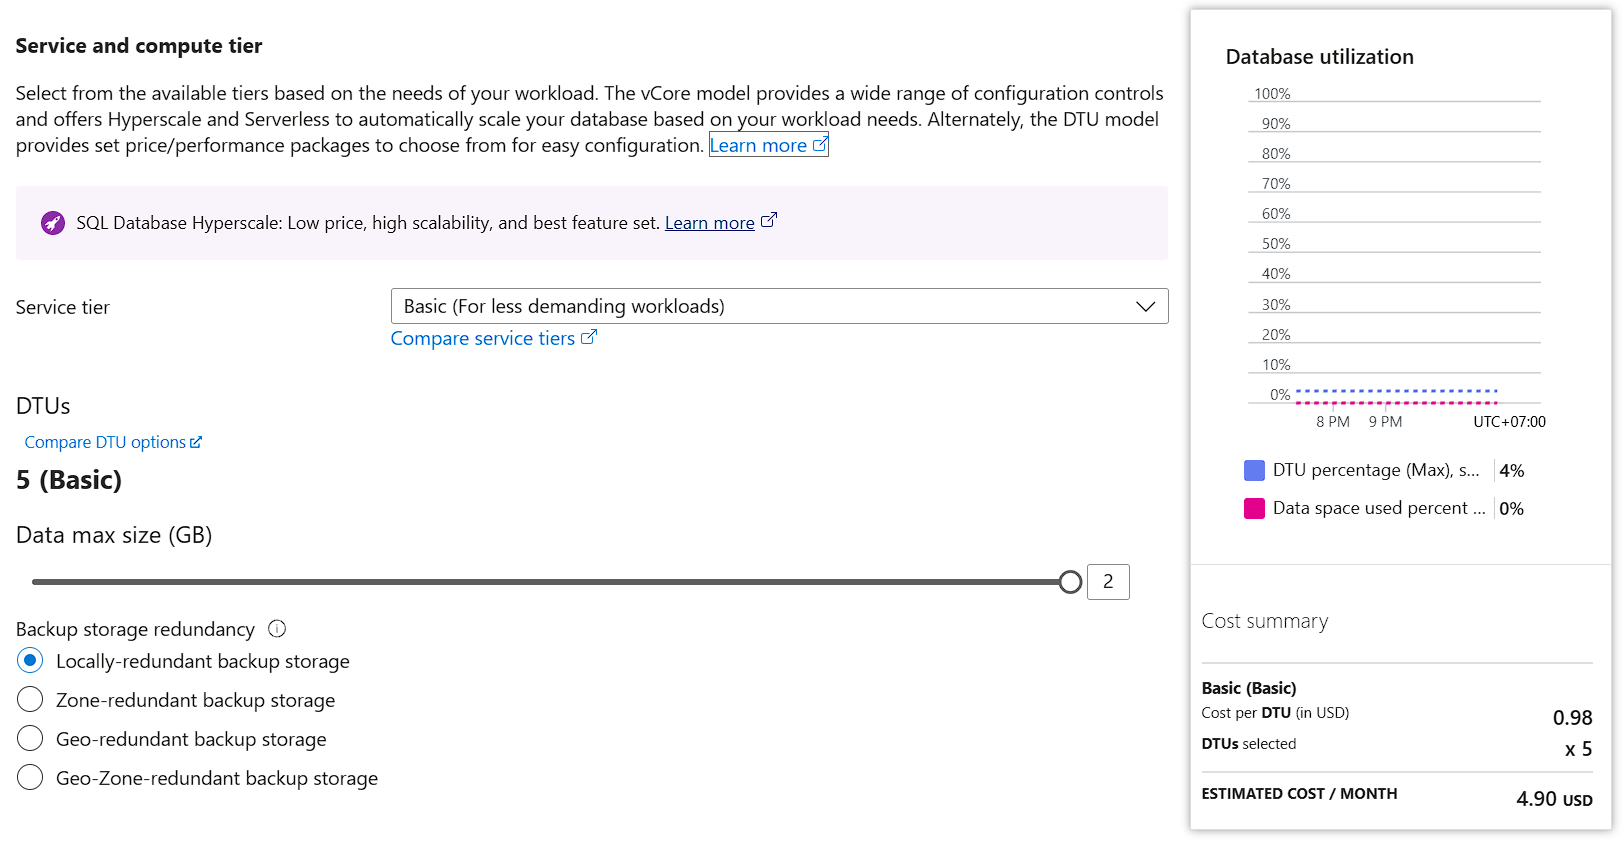
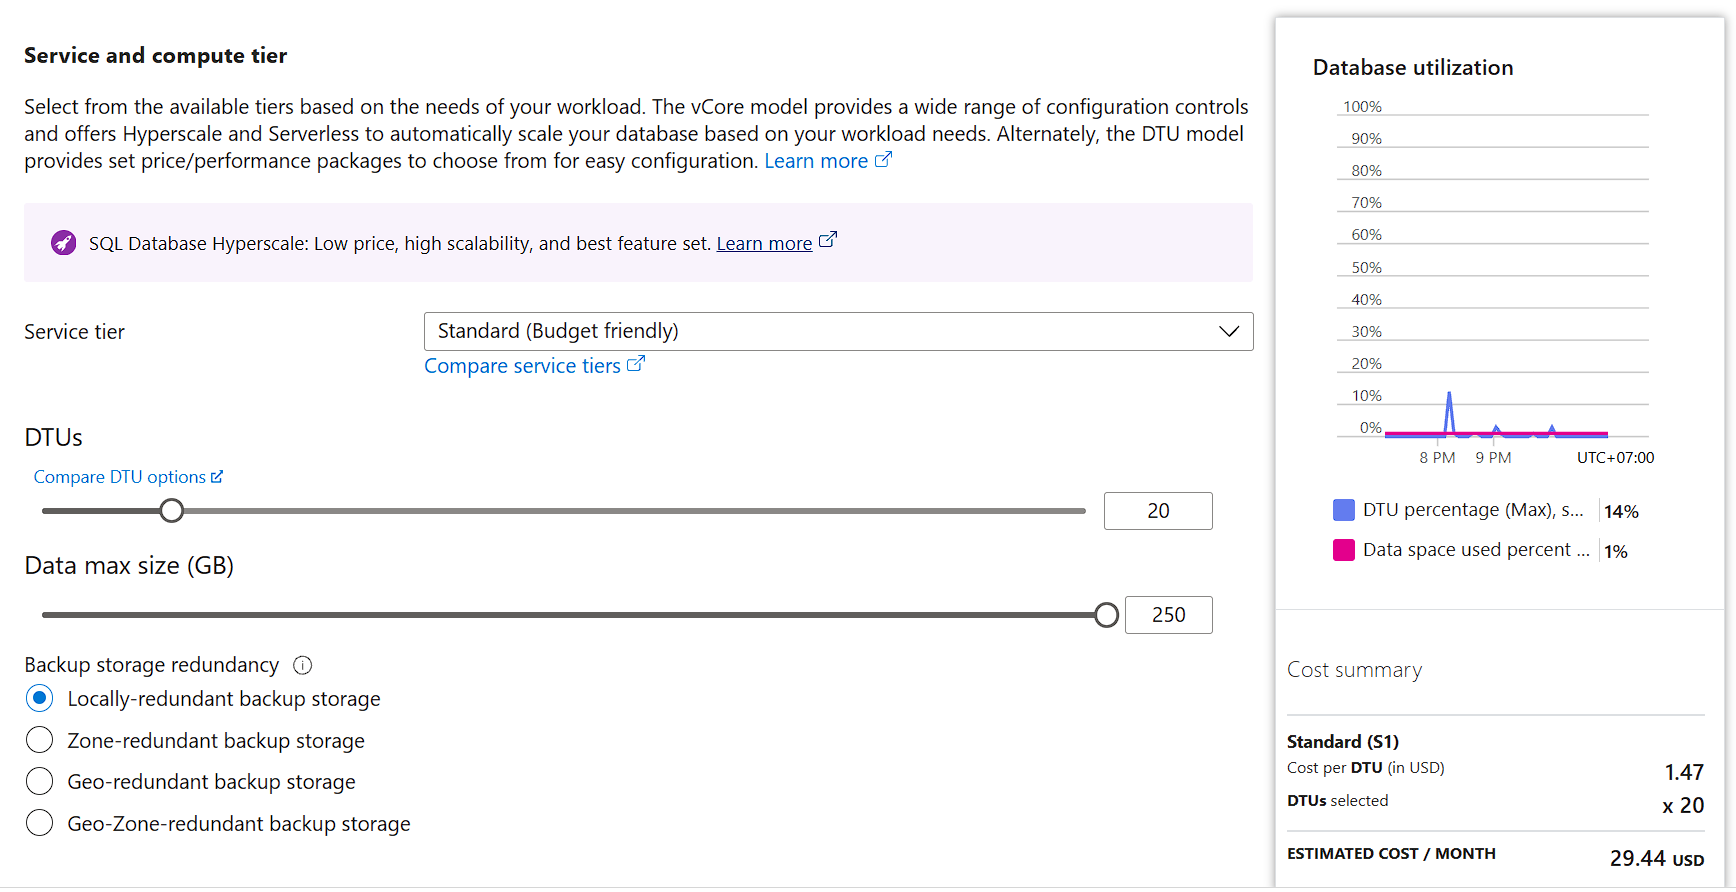
feat(benchmark): hoan thanh do hieu nang sql azure vs local va xuat bieu do

diff --git a/database/benchmarks/sql_benchmark.py b/database/benchmarks/sql_benchmark.py
@@ -60,9 +60,9 @@ GEN_SQL = f"""
 INSERT INTO bench.read_events (event_time, event_type, product_id, brand, price, user_id, user_session, payload)
 SELECT TOP (?)
     DATEADD(SECOND, CAST({R} % 2678400 AS INT), '2019-10-01'),
-    CHOOSE(1 + CAST({R} % 100 AS INT) / 33, 'view', 'view', 'view', 'purchase'),
+    CHOOSE(1 + (ROW_NUMBER() OVER (ORDER BY (SELECT NULL)) % 100) / 33, 'view', 'view', 'view', 'purchase'),
     CAST(1000978 + {R} % 59500000 AS INT),
-    CHOOSE(1 + CAST({R} % 10 AS INT), 'samsung','apple','xiaomi','huawei','lenovo','acer','sony','lg','hp','bosch'),
+    CHOOSE(1 + ((ROW_NUMBER() OVER (ORDER BY (SELECT NULL)) / 7) % 10), 'samsung','apple','xiaomi','huawei','lenovo','acer','sony','lg','hp','bosch'),
     CAST(ROUND({R} % 257407 / 100.0, 2) AS FLOAT),
     CAST(33869381 + {R} % 530000000 AS INT),
     CONVERT(CHAR(36), NEWID()),
@@ -178,11 +178,16 @@ def grow_to(conn, target_mb, label):
     n = 0
     while mb < target_mb:
         n += 1
+        if rows > 0:
+            need = int((target_mb - mb) * rows / mb) + 1
+            chunk = max(1000, min(CHUNK, need))
+        else:
+            chunk = 20_000 if target_mb < 50 else CHUNK
         t = time.perf_counter()
-        conn.cursor().execute(GEN_SQL, CHUNK)
+        conn.cursor().execute(GEN_SQL, chunk)
         dur = time.perf_counter() - t
         mb, rows = table_size(conn)
-        record("read", "load_generate_chunk", label, mb, CHUNK, n, dur,
+        record("read", "load_generate_chunk", label, mb, chunk, n, dur,
                extra=f"server-side generate; table now {mb:.0f}MB/{rows}rows")
     return mb, rows
 
@@ -277,48 +282,93 @@ def gen_rows(n):
              random.randint(1, 2000), round(random.random() * 5000, 2)) for i in range(n)]
 
 
+def get_done_tests():
+    done = set()
+    if os.path.exists(CSV_PATH):
+        with open(CSV_PATH, "r", encoding="utf-8") as f:
+            for row in csv.DictReader(f):
+                if row.get("target") == ARGS.target and row.get("suite") == "write":
+                    done.add((row.get("test"), int(row.get("repeat") or 1)))
+    return done
+
+
+def run_with_retry(fn, tries=3):
+    for k in range(1, tries + 1):
+        try:
+            return fn()
+        except pyodbc.OperationalError as e:
+            if k == tries:
+                raise
+            print(f"  [retry {k}/{tries - 1}] mất kết nối ({e.args[0] if e.args else e}), thử lại sau 10s...", flush=True)
+            time.sleep(10)
+
+
 def suite_write():
     ac = connect(autocommit=True)
     setup(ac)
-    # (tên bảng, tổng dòng, batch) - batch commit mỗi lần, giống cách ASA ghi theo lô
+    ac.close()
+    done = get_done_tests()
     plan = [("write_noidx", 10_000, 1000), ("write_noidx", 100_000, 1000), ("write_noidx", 100_000, 100),
             ("write_noidx", 100_000, 10_000), ("write_idx", 10_000, 1000), ("write_idx", 100_000, 1000)]
 
-    # 1) ghi từng dòng (autocommit) - mốc so sánh với ghi theo batch
-    ac.cursor().execute("TRUNCATE TABLE bench.write_noidx")
-    rows = gen_rows(1000)
-    cur, lat, since = ac.cursor(), [], utcnow()
-    t0 = time.perf_counter()
-    for r in rows:
-        t = time.perf_counter()
-        cur.execute(INS_SQL.format(t="write_noidx"), r)
-        lat.append((time.perf_counter() - t) * 1000)
-    dur = time.perf_counter() - t0
-    dtu = finish_dtu(ac, since)
-    record("write", "write_single_n1000_noidx", None, None, 1000, 1, dur, dtu=dtu,
-           extra=f"1 INSERT/dòng, autocommit; lat_p50_ms={statistics.median(lat):.2f}; lat_p95_ms={pct(lat, 95):.2f}")
+    # 1) ghi từng dòng (autocommit)
+    if ("write_single_n1000_noidx", 1) not in done:
+        def one_single():
+            c = connect(autocommit=True)
+            try:
+                c.cursor().execute("TRUNCATE TABLE bench.write_noidx")
+                rows = gen_rows(1000)
+                cur, lat, since = c.cursor(), [], utcnow()
+                t0 = time.perf_counter()
+                for r in rows:
+                    t = time.perf_counter()
+                    cur.execute(INS_SQL.format(t="write_noidx"), r)
+                    lat.append((time.perf_counter() - t) * 1000)
+                dur = time.perf_counter() - t0
+                dtu = finish_dtu(c, since)
+                record("write", "write_single_n1000_noidx", None, None, 1000, 1, dur, dtu=dtu,
+                       extra=f"1 INSERT/dòng, autocommit; lat_p50_ms={statistics.median(lat):.2f}; lat_p95_ms={pct(lat, 95):.2f}")
+            finally:
+                c.close()
+        run_with_retry(one_single)
+    else:
+        print("  [skip] write_single_n1000_noidx đã có kết quả trong CSV", flush=True)
 
-    # 2) ghi theo batch bằng fast_executemany
-    conn = connect(autocommit=False)
+    # 2) ghi theo batch: mỗi lần đo một kết nối riêng, tự thử lại nếu rớt mạng
     for table, n, batch in plan:
+        tag = "idx" if table == "write_idx" else "noidx"
+        test_name = f"write_b{batch}_n{n}_{tag}"
         for rep in range(1, ARGS.reps + 1):
-            conn.cursor().execute(f"TRUNCATE TABLE bench.{table}")
-            conn.commit()
-            rows = gen_rows(n)
-            cur = conn.cursor()
-            cur.fast_executemany = True
-            lat, since = [], utcnow()
-            t0 = time.perf_counter()
-            for i in range(0, n, batch):
-                t = time.perf_counter()
-                cur.executemany(INS_SQL.format(t=table), rows[i:i + batch])
-                conn.commit()
-                lat.append((time.perf_counter() - t) * 1000)
-            dur = time.perf_counter() - t0
-            dtu = finish_dtu(conn, since)
-            tag = "idx" if table == "write_idx" else "noidx"
-            record("write", f"write_b{batch}_n{n}_{tag}", None, None, n, rep, dur, dtu=dtu,
-                   extra=f"batch={batch}; batch_lat_p50_ms={statistics.median(lat):.1f}; batch_lat_p95_ms={pct(lat, 95):.1f}")
+            if (test_name, rep) in done:
+                print(f"  [skip] {test_name} #{rep} đã có trong CSV", flush=True)
+                continue
+
+            def one_rep(table=table, n=n, batch=batch, rep=rep, test_name=test_name):
+                conn = connect(autocommit=False)
+                try:
+                    conn.cursor().execute(f"TRUNCATE TABLE bench.{table}")
+                    conn.commit()
+                    rows = gen_rows(n)
+                    cur = conn.cursor()
+                    cur.fast_executemany = True
+                    lat, since = [], utcnow()
+                    t0 = time.perf_counter()
+                    for i in range(0, n, batch):
+                        t = time.perf_counter()
+                        cur.executemany(INS_SQL.format(t=table), rows[i:i + batch])
+                        conn.commit()
+                        lat.append((time.perf_counter() - t) * 1000)
+                    dur = time.perf_counter() - t0
+                    dtu = finish_dtu(conn, since)
+                    record("write", test_name, None, None, n, rep, dur, dtu=dtu,
+                           extra=f"batch={batch}; batch_lat_p50_ms={statistics.median(lat):.1f}; batch_lat_p95_ms={pct(lat, 95):.1f}")
+                finally:
+                    try:
+                        conn.close()
+                    except Exception:
+                        pass
+
+            run_with_retry(one_rep)
 
 
 def suite_reset():

diff --git a/database/benchmarks/clean_csv.py b/database/benchmarks/clean_csv.py
@@ -1,0 +1,34 @@
+#!/usr/bin/env python3
+import csv
+import os
+import shutil
+import sys
+
+HERE = os.path.dirname(os.path.abspath(__file__))
+p = os.path.join(HERE, "read_write_results.csv")
+
+if len(sys.argv) < 3:
+    print("Sử dụng: python clean_csv.py <target> <suite|all>")
+    sys.exit(1)
+
+target, suite = sys.argv[1], sys.argv[2]
+
+if not os.path.exists(p):
+    print(f"File {p} không tồn tại.")
+    sys.exit(0)
+
+shutil.copy(p, p + ".bak")
+
+with open(p, newline="", encoding="utf-8") as f:
+    rd = csv.DictReader(f)
+    fields = rd.fieldnames
+    rows = list(rd)
+
+keep = [r for r in rows if not (r["target"] == target and (suite == "all" or r["suite"] == suite))]
+
+with open(p, "w", newline="", encoding="utf-8") as f:
+    w = csv.DictWriter(f, fieldnames=fields)
+    w.writeheader()
+    w.writerows(keep)
+
+print(f"Đã xóa {len(rows) - len(keep)} dòng ({target}/{suite}); bản sao lưu: {p}.bak")
